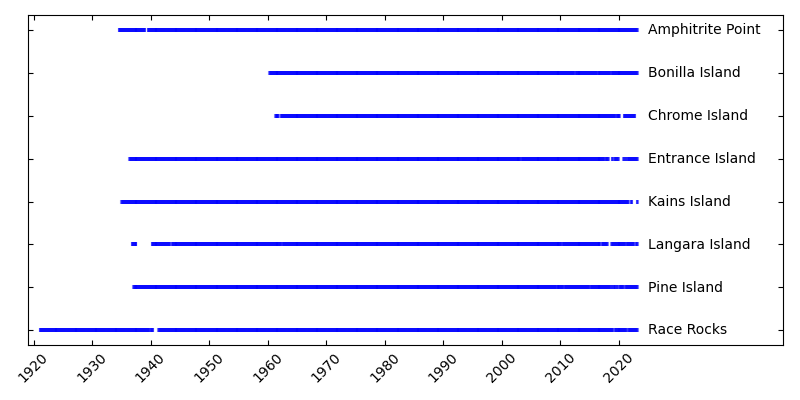
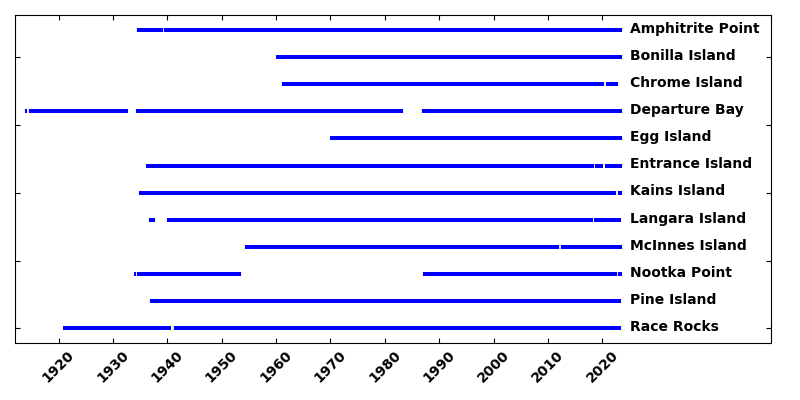
update plot of data gaps

diff --git a/scripts/plot_lightstation_temperature.py b/scripts/plot_lightstation_temperature.py
@@ -153,7 +153,7 @@ def plot_monthly_anomalies(anom_file: str, station_name: str, plot_name: str, be
     return
 
 
-def plot_data_gaps():
+def plot_data_gaps(suffix: str):
     """
     Make a bar-like plot showing where there are gaps in each lightstations' record
     Follow
@@ -167,26 +167,30 @@ def plot_data_gaps():
     # os.chdir(new_dir)
 
     # Read in the data
-    raw_file_list = glob.glob('.\\data\\monthly\\*MonthlyTemp.csv')
+    raw_file_list = glob.glob(f'.\\data\\monthly\\*{suffix}')
     if len(raw_file_list) == 0:
         print('Check suffix of raw files; empty file list returned')
         return
     raw_file_list.sort(reverse=True)
 
-    min_year, max_year = [1921, 2023]
+    min_year, max_year = [1914, 2023]
 
     # Make the plot
     fig = plt.figure(figsize=(8, 4))
     ax = fig.add_subplot()
 
     for i in range(len(raw_file_list)):
-        df = pd.read_csv(raw_file_list[i], index_col='Year',
-                         na_values=[99.99, 999.9, 999.99])
+        try:
+            df = pd.read_csv(raw_file_list[i], index_col='Year',
+                             na_values=[99.99, 999.9, 999.99])
+        except ValueError:
+            df = pd.read_csv(raw_file_list[i], skiprows=1, index_col='YEAR',
+                             na_values=[99.99, 999.9, 999.99])
         # Flatten the dataframe
         date, sst = flatten_dframe(df)
         # Make a mask from the dataframe using ~pd.isna(df)
         mask = ~pd.isna(sst)
-        sst_here = np.ones(sum(mask)) * (2 * i)
+        sst_here = np.ones(sum(mask)) * (2 * i)  # single y value to plot the availability at
         # Plot the data with vline marker (square 's' marker too big?)
         # Change marker opacity with alpha
         ax.scatter(date[mask], sst_here, marker='|', s=10, color='b')
@@ -202,7 +206,7 @@ def plot_data_gaps():
     new_xticks = np.arange(old_xticks[0], old_xticks[-2] + 1, 10, dtype=int)
     ax.set_xticks(new_xticks)
     ax.set_xticklabels(ax.get_xticks(), rotation=45)
-    ax.set_xlim((min_year - 2, max_year + 25))
+    ax.set_xlim((min_year - 2, max_year + 28))  # just to get the spacing right with the text
     plt.tight_layout()
 
     plt.savefig('.\\figures\\lightstation_data_gaps.png')
@@ -581,7 +585,7 @@ def plot_filled_sst_resid(anom_file: str, all_time_mean: float, plot_name: str):
     return
 
 
-def plot_filled_daily_sst(daily_file, plot_name):
+def plot_filled_daily_sst_deprec(daily_file, plot_name):
     """
     Translated from Peter Chandler's matlab script. Use daily SST data to plot
     365-day rolling averaged SST anomalies and compute and plot a OLS line below the curve.
@@ -1131,7 +1135,7 @@ def run_plot(
     )
 
     if availability:
-        plot_data_gaps()
+        plot_data_gaps(suffix='.csv')
 
     if monthly_anom:
         for stn, f in zip(STATION_NAMES, anom_files):
